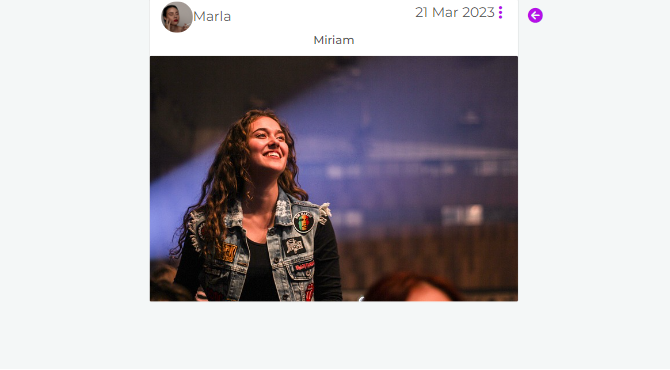
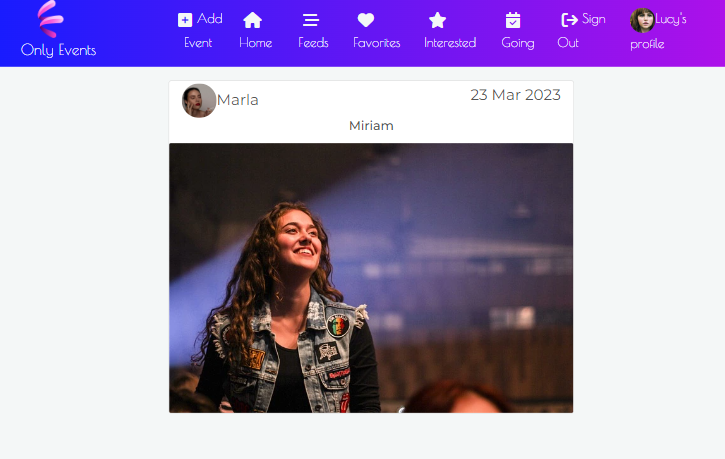
Finish adding comments to the code, update testing for logged-out users, and delete the redirection button in the PhotoPage.

diff --git a/src/components/MoreDropdown.js b/src/components/MoreDropdown.js
@@ -5,7 +5,6 @@ import styles from "../styles/MoreDropdown.module.css";
 import btnStyle from "../styles/Button.module.css";
 import { useHistory } from "react-router";
 
-
 // Through the forwardRef, the Dropdown can access
 // the DOM node to position the Menu.
 const ThreeDots = React.forwardRef(({ onClick }, ref) => (
@@ -45,13 +44,13 @@ export const MoreDropdown = ({ handleEdit, handleDelete }) => {
         >
           <i className="fas fa-edit" />
         </Dropdown.Item>
-        <Dropdown.Item
-          className={styles.DropdownItem}
-          onClick={handleDelete}
-          aria-label="delete"
-        >
-          <i className="fas fa-trash-alt" />
-        </Dropdown.Item>
+          <Dropdown.Item
+            className={styles.DropdownItem}
+            onClick={handleDelete}
+            aria-label="delete"
+          >
+            <i className="fas fa-trash-alt" />
+          </Dropdown.Item>
       </Dropdown.Menu>
     </Dropdown>
   );

diff --git a/src/pages/events/Photos/PhotoPage.js b/src/pages/events/Photos/PhotoPage.js
@@ -5,12 +5,10 @@ import { useParams } from "react-router-dom";
 import { axiosReq } from "../../../api/axiosDefaults";
 import { Container } from "react-bootstrap";
 import Photo from "./Photo";
-import { useHistory } from "react-router-dom/cjs/react-router-dom.min";
 
 const PhotoPage = () => {
   const { id } = useParams();
   const [photo, setPhoto] = useState({ results: [] });
-  const history = useHistory();
 
   useEffect(() => {
     const handleMount = async () => {
@@ -30,12 +28,7 @@ const PhotoPage = () => {
       <Col className="py-2 p-0 p-lg-2">
         <Container className="d-flex justify-content-center">
           <Photo {...photo.results[0]} photoPage />
-          <i
-            className="fas fa-arrow-circle-left p-3"
-            onClick={() => {
-              history.goBack();
-            }}
-          />
+          
         </Container>
       </Col>
     </Row>

diff --git a/src/pages/auth/SignInForm.js b/src/pages/auth/SignInForm.js
@@ -37,7 +37,7 @@ function SignInForm() {
 
   const handleSubmit = async (event) => {
     // It posts the log-in details to the API endpoint,
-    // updates the current user and sets the token timestamp.  
+    // updates the current user and sets the token timestamp.
     event.preventDefault();
     try {
       const { data } = await axios.post("/dj-rest-auth/login/", signInData);
@@ -120,7 +120,7 @@ function SignInForm() {
           className={`${appStyles.FillerImage}`}
           alt="sign-in image"
           src={
-            "https://res.cloudinary.com/dolts3yad/image/upload/v1679479222/media/images/sign-in.jpg"
+            "https://res.cloudinary.com/dolts3yad/image/upload/v1679698649/media/images/Sign_in.webp"
           }
         />
       </Col>

diff --git a/src/pages/events/EventEditForm.js b/src/pages/events/EventEditForm.js
@@ -135,7 +135,8 @@ function EventEditForm() {
         ...eventData,
         image: URL.createObjectURL(event.target.files[0]),
       });
-    }
+      
+    }console.log(image)
   };
 
   const handleSubmit = async (event) => {
@@ -149,10 +150,14 @@ function EventEditForm() {
     formData.append("date", date);
     formData.append("location", location);
     formData.append("address", address);
+
     if (imageInput?.current?.files[0]) {
+      console.log("APPEND", imageInput.current.files[0])
       formData.append("image", imageInput.current.files[0]);
     }
-
+    for (var pair of formData.entries()) {
+      console.log(pair[0] + ", " + pair[1])
+    }
     try {
       await axiosReq.put(`/events/${id}`, formData);
       history.push(`/events/${id}/`);

diff --git a/src/pages/auth/SignUpForm.js b/src/pages/auth/SignUpForm.js
@@ -38,7 +38,7 @@ const SignUpForm = () => {
 
   const handleSubmit = async (event) => {
     // It posts the sign up details to the API endpoint
-    // and redirects the user to the sign in page. 
+    // and redirects the user to the sign in page.
     event.preventDefault();
     try {
       await axios.post("/dj-rest-auth/registration/", signUpData);
@@ -139,7 +139,7 @@ const SignUpForm = () => {
           className={`${appStyles.FillerImage}`}
           alt="sign-up image"
           src={
-            "https://res.cloudinary.com/dolts3yad/image/upload/v1679479295/media/images/sign-up.jpg"
+            "https://res.cloudinary.com/dolts3yad/image/upload/v1679698649/media/images/Sign_up.webp"
           }
         />
       </Col>

diff --git a/public/index.html b/public/index.html
@@ -2,13 +2,18 @@
 <html lang="en">
   <head>
     <meta charset="utf-8" />
-    <link rel="icon" href="%PUBLIC_URL%/favicon.ico" />
     <meta name="viewport" content="width=device-width, initial-scale=1" />
     <meta name="theme-color" content="#000000" />
     <meta
       name="description"
-      content="Web site created using create-react-app"
+      content="Web site to share events, images, and opinions."
     />
+    <meta
+      name="keywords"
+      content="Events, Only Events, Music, Art, Cinema, Sports, Nightlife, Entertainment"
+    />
+
+    <link rel="icon" href="%PUBLIC_URL%/favicon.ico" />
     <link rel="apple-touch-icon" href="%PUBLIC_URL%/logo192.png" />
     <link
       rel="stylesheet"

diff --git a/src/pages/profiles/ProfilePage.js b/src/pages/profiles/ProfilePage.js
@@ -204,8 +204,12 @@ function ProfilePage() {
               </Button>
             ))}
         </Col>
-
-        {profile?.content && <Col className="p-3">{profile.content}</Col>}
+        {profile?.content && (
+          <Col className="p-3">
+            <hr />
+            <p className={styles.Bio}>{profile.content}</p>
+          </Col>
+        )}
       </Row>
     </>
   );

diff --git a/src/pages/profiles/preferences/PreferenceCreateForm.js b/src/pages/profiles/preferences/PreferenceCreateForm.js
@@ -30,12 +30,10 @@ const PreferenceCreateForm = (props) => {
       try {
         const { data } = await axiosReq.get(`/categories/genres/`);
         setPreferenceChoice(data);
-        console.log(data)
       } catch (err) {
         console.log(err);
       }
     };
-    console.log("PREF");
     fetchPreferences();
   }, []);
 

diff --git a/src/pages/events/Event.js b/src/pages/events/Event.js
@@ -258,7 +258,7 @@ const Event = (props) => {
             )}
             {goings_count}
 
-            <Link name={`event ${id}`} to={`/events/${id}`}>
+            <Link name={`event ${title} ${id}`} to={`/events/${id}`}>
               <i className="far fa-comments" />
             </Link>
             {comments_count}

diff --git a/src/styles/ProfilePage.module.css b/src/styles/ProfilePage.module.css
@@ -15,6 +15,10 @@
   padding-left: 5vw;
 }
 
+.Bio {
+  font-size: 1rem;
+}
+
 .BoxText {
   font-size: 1.2rem;
 }
@@ -44,8 +48,8 @@
   
 @media screen and (max-width: 991px) {
   .ProfileImage {
-    width: 250px;
-    height: 250px;
+    width: 150px;
+    height: 150px;
   }
 
   .FollowersBox {

diff --git a/TESTING.md b/TESTING.md
@@ -62,6 +62,7 @@ Sign up Link | Clicking the link redirects to the account sign up page. | Pass |
 Element | Expected Outcome | Pass/Fail |
 --- | --- | --- |
 Search Bar | Typing in the search bar filters the events on the home page displaying the events of which the keyword is included in the username, title, or date. | Pass |
+Add the next event Link | If the user is not logged in, it doesn't display the link. | Pass |
 Add the next event Link | Clicking the link will redirect the user to the create event form. | Pass |
 Event Card avatar |The avatar and the name of the event owner are displayed at the top of the card. | Pass |
 Event Card avatar | Clicking the link redirects to the event owner profile. | Pass |
@@ -78,6 +79,8 @@ Most followed profile Unfollow button | Clicking the button makes the style and 
 Element | Expected Outcome | Pass/Fail |
 --- | --- | --- |
 See gallery button | Clicking on the button toggles the gallery, showing/hiding the event's photos. | Pass |
+See gallery button | If the user is not logged in, the button doesn't display. | Pass |
+Gallery section | If the user is not logged in and tries to access the page via URL, it displays a message requesting them to log in. | Pass |
 Add a photo button | Clicking on the button redirects the user to the photo create form. | Pass |
 Event dropdown menu icon | It's displayed only if the user is the event owner. | Pass |
 Event dropdown menu icons | Clicking the icon displays an edit and delete icon. | Pass |
@@ -114,6 +117,7 @@ Interested section | If the user clicks again on the interested icon at the bott
 
 Element | Expected Outcome | Pass/Fail |
 --- | --- | --- |
+Event create form | If the user is not logged in, they can't access the form. | Pass |
 Upload image | If the user clicks on the section, it allows the user to upload an image. | Pass |
 Upload image | If the user doesn't upload an image, the form can't be submitted. | Pass |
 Upload image | If the user doesn't upload an image, it displays an error message. | Pass |
@@ -142,6 +146,7 @@ Event create button | If the user clicks the create button, it posts the event u
 
 Element | Expected Outcome | Pass/Fail |
 --- | --- | --- |
+Event edit form | If the user is not the event owner, they can't access the form. | Pass |
 Change | If the user clicks on the "change the image" button, it allows the user to upload a new image. | Pass |
 Upload image | If the user doesn't upload an image and submits the form, the event will have the previous image. | Pass |
 Event title field | If the user doesn't edit the title and submits the form, the event will have the previous title. | Pass |
@@ -184,6 +189,7 @@ Back button | If the user clicks the button, it redirects to the previous page. 
 
 Element | Expected Outcome | Pass/Fail |
 --- | --- | --- |
+Photo create form | If the user is not logged in, they can't access the form. | Pass |
 Upload section | If the user clicks the "click or tap to upload an image" section, it allows them to upload an image. | Pass |
 Upload section | If the user doesn't upload an image and submits the form, it will display an error message. | Pass |
 Photo title | If the user clicks on the photo title field, it allows them to type the title. | Pass |
@@ -195,6 +201,7 @@ Cancel button | If the user clicks "cancel", it won't create a new image and clo
 
 Element | Expected Outcome | Pass/Fail |
 --- | --- | --- |
+Photo edit form | If the user is not the photo owner, they can't access the form. | Pass |
 Upload section | If the user clicks the "change image" section, it allows them to upload a new image. | Pass |
 Upload section | If the user doesn't upload an image and submits the form, it will display the image previously uploaded. | Pass |
 Photo title | If the user clicks on the photo title field, it allows them to edit the title. | Pass |
@@ -211,6 +218,9 @@ Element | Expected Outcome | Pass/Fail |
 Profile picture section | It displays the profile picture of the user. | Pass |
 Edit profile button | If the user is the profile owner, it displays a button that opens a dropdown menu to edit the password, username, or profile (bio and image). | Pass |
 Edit profile button | If the user is not the profile owner, the button doesn't appear. | Pass |
+Photo section | If the user is not logged in, the button doesn't display. | Pass |
+Photo section | If the user is not logged in and tries to access the page via URL, it displays a message requesting them to log in. | Pass |
+Photo section | If the user is not logged in and tries to access the page via URL, it displays a message requesting them to log in. | Pass |
 Photo section | It displays a button that links to the photos page. | Pass |
 Add a preference section | If the user is the owner, this section displays a button that, when clicked, toggles the preference form. | Pass |
 Preference form | If the user clicks a genre and "create", it adds a preference to the profile. | Pass |
@@ -231,6 +241,7 @@ Main profile section | If another user stops following the current user, the cur
 
 Element | Expected Outcome | Pass/Fail |
 --- | --- | --- |
+Edit profile form | If the user is not the profile owner, they can't access the form. | Pass |
 Upload section | If the user clicks the "change image" section, it allows them to upload a new image. | Pass |
 Upload section | If the user doesn't upload an image and submits the form, it will display the image previously uploaded. | Pass |
 Bio | If the user clicks on the bio text field, it allows them to edit the content. | Pass |
@@ -243,6 +254,7 @@ Cancel button | If the user clicks "cancel", it will discharge all changes. | Pa
 
 Element | Expected Outcome | Pass/Fail |
 --- | --- | --- |
+Edit profile form | If the user is not the profile owner, they can't access the form. | Pass |
 Username field | It displays the username of the user. | Pass |
 Username field | If the user edits the username with an existing one and submits the form, it will display an error message. | Pass |
 Save button | If the user edits the username without errors, it updates the profile username. | Pass |
@@ -252,6 +264,7 @@ Cancel button | If the user clicks "cancel", it will discharge all changes. | Pa
 
 Element | Expected Outcome | Pass/Fail |
 --- | --- | --- |
+Edit profile form | If the user is not the profile owner, they can't access the form. | Pass |
 New password field | It allows the user to type a new password. | Pass |
 New password field | If the user leaves this field blank, it will display an error message. | Pass |
 Confirm new password field | It requires the user to retype the same password. | Pass |

diff --git a/README.md b/README.md
@@ -405,7 +405,6 @@ From this section, the user can follow/unfollow other users and view their profi
 
 - It provides the user a wider view of the selected photo along with the title, date of upload, profile image, and username of who posted it;
 - If the user is the photo owner, they can access the dropdown menu to delete or edit the event;
-- This section provides a button to redirect the user to the previous page.
 
 ### Photo forms section
 
@@ -672,6 +671,7 @@ To work on the code from a local device, the steps to clone the repository are a
 - [Fontpair](https://www.fontpair.co/) - Used to choose and pair the website fonts;
 - [Adobe color](https://color.adobe.com/) - Used to create the color palette;
 - [Tiny PNG](https://tinypng.com) - Used to reduce the file size of the images;
+- [Ezgif](https://ezgif.com/jpg-to-webp): used to convert images.
 - [Removebg](https://www.remove.bg/) - Used to remove background images;
 - [Pixabay](http://pixabay.com/) and [Pexels](https://www.pexels.com/) - Used to get the images;
 - [Freepick](https://www.freepik.com/) - Used for the logo;
